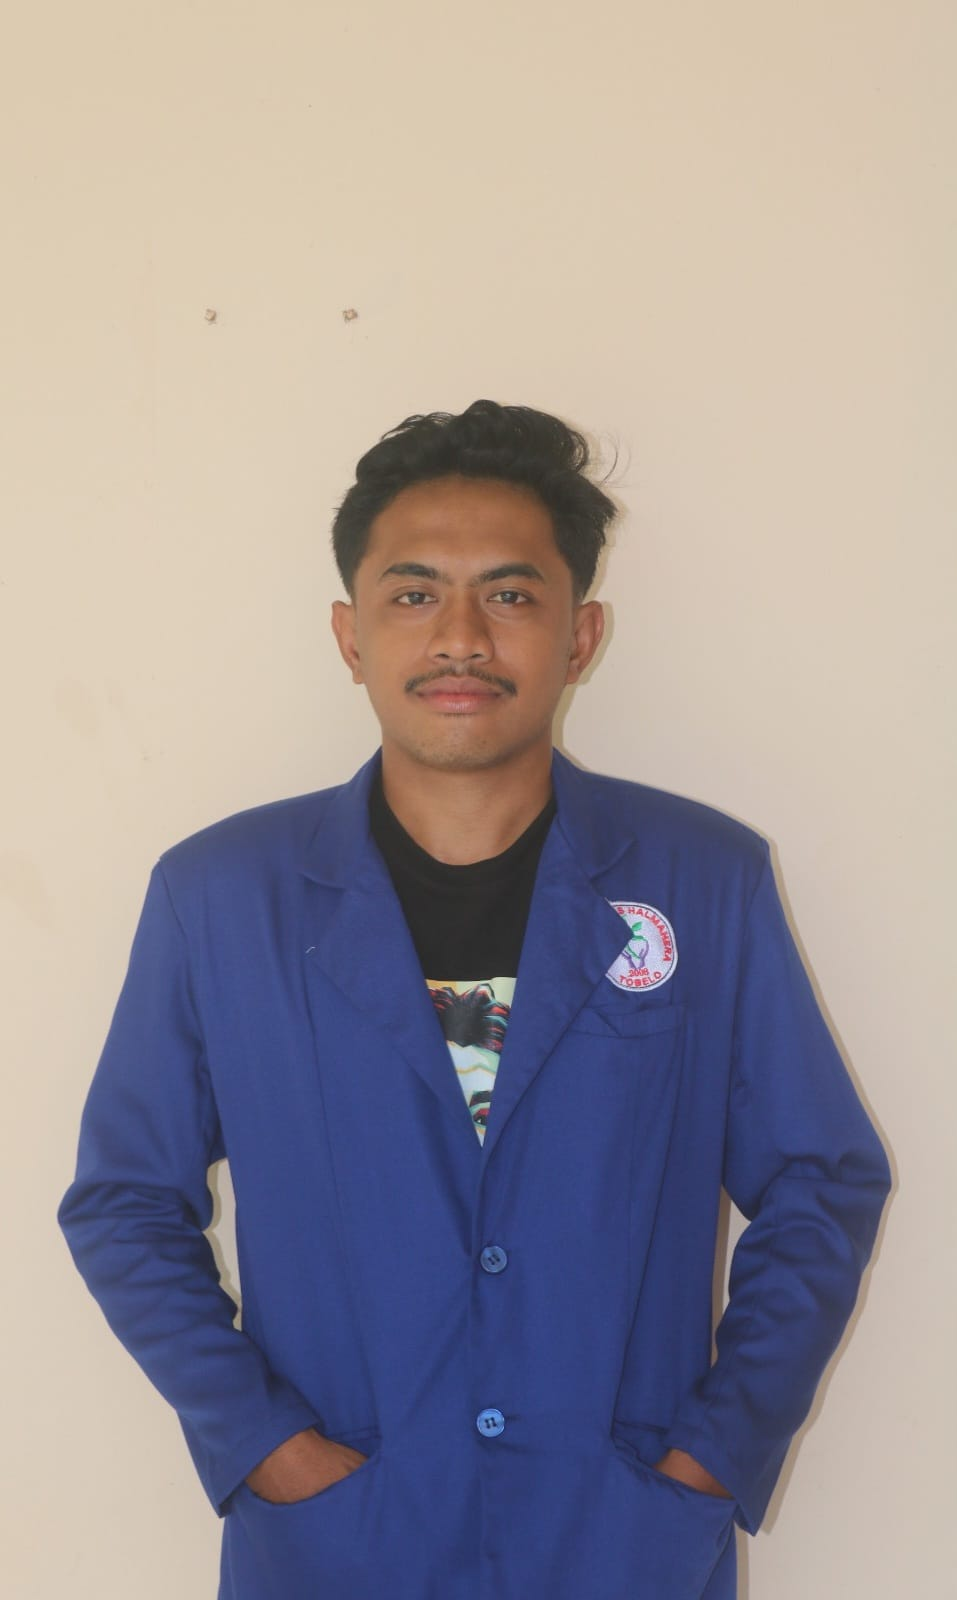
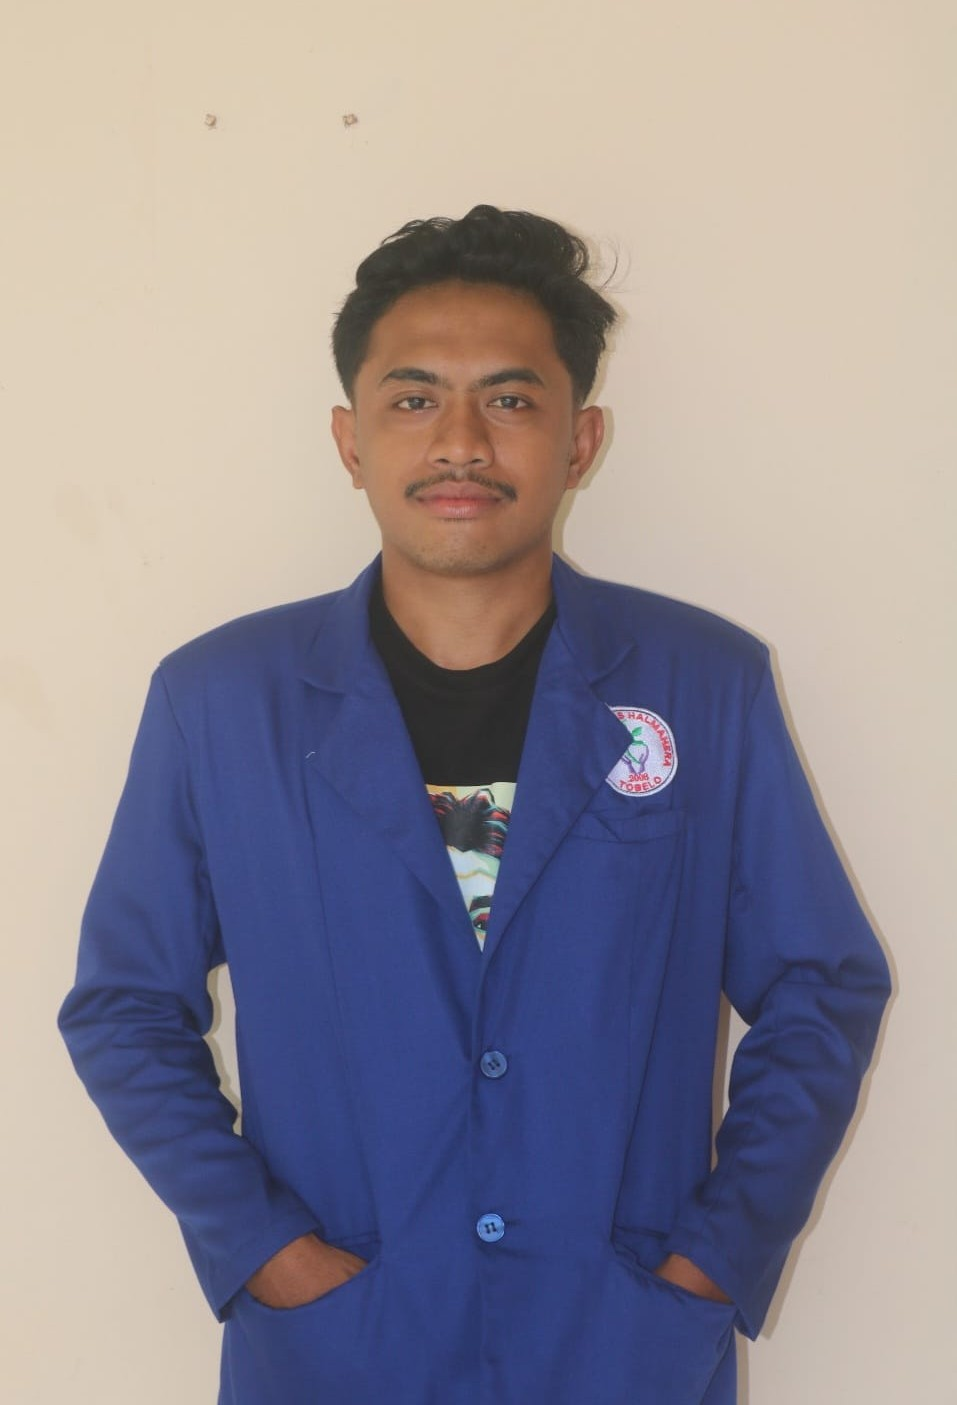
menambahkan link sosmed

diff --git a/tentang-kami.php b/tentang-kami.php
@@ -135,10 +135,10 @@ $tahunKini  = date('Y');
     <!-- <p class="text-xs text-center font-extrabold uppercase tracking-[0.2em] text-emerald-600">Tim Distribusi</p> -->
     <h2 class="mt-2 text-center text-2xl font-extrabold tracking-tight text-slate-900 md:text-3xl">Anggota Tim Distribusi</h2>
 
-    <div class="mt-7 grid lg:grid-cols-3">
+    <div class="mt-14 grid lg:grid-cols-3">
       <!-- Profil Anggota Tim -->
       <div class="flex text-center flex-col items-center gap-5 p-7">
-        <img src="assets/img/pengembang3.jpeg" class="w-32 h-32 rounded-full object-cover" alt="">
+        <img src="assets/img/profil-icon.jpg" class="w-32 h-32 rounded-full object-cover" alt="">
         <div class="min-w-0">
           <p class="text-xl font-extrabold tracking-tight text-slate-900">Muhammad Afwan</p>
           <!-- <p class="text-sm font-bold text-emerald-600">Anggota Tim Distribusi</p> -->
@@ -151,14 +151,14 @@ $tahunKini  = date('Y');
       </div>
 
       <div class="flex text-center flex-col items-center gap-5 p-7">
-        <img src="assets/img/pengembang3.jpeg" class="w-32 h-32 rounded-full object-cover" alt="">
+        <img src="assets/img/profil-icon.jpg" class="w-32 h-32 rounded-full object-cover" alt="">
         <div class="min-w-0">
           <p class="text-xl font-extrabold tracking-tight text-slate-900">Alifa Anindya</p>
         </div>
       </div>
 
       <div class="flex text-center flex-col items-center gap-5 p-7">
-        <img src="assets/img/pengembang3.jpeg" class="w-32 h-32 rounded-full object-cover" alt="">
+        <img src="assets/img/profil-icon.jpg" class="w-32 h-32 rounded-full object-cover" alt="">
         <div class="min-w-0">
           <p class="text-xl font-extrabold tracking-tight text-slate-900">Meylin Man Hasan</p>
         </div>
@@ -172,7 +172,7 @@ $tahunKini  = date('Y');
 
     <div class="mt-7 flex flex-col items-center text-center gap-5 rounded-xl bg-white p-7 shadow-card ring-1 ring-slate-100 lg:max-w-3xl">
       <div class="min-w-0 flex flex-col items-center">
-        <img src="assets/img/pengembang3.jpeg" class="w-32 h-32 rounded-full object-cover" alt="Foto Frida">
+        <img src="assets/img/profil-icon.jpg" class="w-32 h-32 rounded-full object-cover" alt="">
         <p class="mt-4 text-xl font-extrabold tracking-tight text-slate-900">Frida Oktafiana Arianti</p>
         <p class="text-sm font-bold text-violet-600">Mentor</p>
         <p class="mt-3 text-sm leading-relaxed text-slate-500">
@@ -203,27 +203,25 @@ $tahunKini  = date('Y');
         
         <div class="p-7 flex-1">
           <p class="text-lg font-extrabold tracking-tight text-slate-900">Lukas Fernandes Urupoda</p>
-          <p class="text-sm font-bold text-primary-600">Frontend Developer</p>
-          <p class="mt-3 text-sm leading-relaxed text-slate-500">
-            Membangun antarmuka halaman publik dan dashboard dengan Tailwind CSS,
-            Apache ECharts, dan Leaflet agar responsif serta mudah dibaca.
-          </p>
+          <div class="icon-sosmed flex flex-col mt-10 gap-2 text-sm">
+            <a href="#"><i class="fa-brands fa-instagram"></i> andesurpda</a>
+            <a href="nandes.urpda@gmail.com"><i class="fa-regular fa-envelope"></i> nandes.urpda@gmail.com</a>
+          </div>
         </div>
       </div>
 
       <!-- CARD 2 -->
       <div class="rounded-3xl bg-white shadow-card ring-1 ring-slate-100 overflow-hidden flex flex-col">
         <div class="w-full">
-          <img src="assets/img/pengembang3.jpeg" class="w-full h-auto object-cover" alt="tim-pengembang-web">
+          <img src="assets/img/pengembang3.jpeg" class="w-full h- object-cover" alt="tim-pengembang-web">
         </div>
         
         <div class="p-7 flex-1">
           <p class="text-lg font-extrabold tracking-tight text-slate-900">Felin Febriani Toronge</p>
-          <p class="text-sm font-bold text-primary-600">Backend Developer (PHP)</p>
-          <p class="mt-3 text-sm leading-relaxed text-slate-500">
-            Menangani login &amp; hak akses admin/viewer, unggah file, API data, serta
-            keamanan (hash password, CSRF) pada PHP dan MySQL.
-          </p>
+          <div class="icon-sosmed flex flex-col mt-10 gap-2 text-sm">
+            <a href=""><i class="fa-brands fa-instagram"></i> felintoronge</a>
+            <a href="nandes.urpda@gmail.com"><i class="fa-regular fa-envelope"></i> felintoronge2004@gmail.com</a>
+          </div>
         </div>
       </div>
 
@@ -235,11 +233,10 @@ $tahunKini  = date('Y');
         
         <div class="p-7 flex-1">
           <p class="text-lg font-extrabold tracking-tight text-slate-900">Galan Kihi-Kihi</p>
-          <p class="text-sm font-bold text-primary-600">Data Engineer (Python)</p>
-          <p class="mt-3 text-sm leading-relaxed text-slate-500">
-            Menulis layanan analisis FastAPI + Pandas: membaca Excel/CSV SHPED,
-            agregasi bulanan, deteksi data tidur, dan ekspor Excel.
-          </p>
+          <div class="icon-sosmed flex flex-col mt-10 gap-2 text-sm">
+            <a href="#"><i class="fa-brands fa-instagram"></i> galanddpo_</a>
+            <a href="nandes.urpda@gmail.com"><i class="fa-regular fa-envelope"></i> gkihikihi@gmail.com</a>
+          </div>
         </div>
       </div>
 
@@ -251,11 +248,10 @@ $tahunKini  = date('Y');
         
         <div class="p-7 flex-1">
           <p class="text-lg font-extrabold tracking-tight text-slate-900">Iqnatia Freyling Pesik</p>
-          <p class="text-sm font-bold text-primary-600">UI/UX Designer &amp; QA</p>
-          <p class="mt-3 text-sm leading-relaxed text-slate-500">
-            Menulis layanan analisis FastAPI + Pandas: membaca Excel/CSV SHPED,
-            agregasi bulanan, deteksi data tidur, dan ekspor Excel.
-          </p>
+          <div class="icon-sosmed flex flex-col mt-10 gap-2 text-sm">
+            <a href="#"><i class="fa-brands fa-instagram"></i> iqnatiaa</a>
+            <a href="nandes.urpda@gmail.com"><i class="fa-regular fa-envelope"></i> @gmail.com</a>
+          </div>
         </div>
       </div>
     </div>
